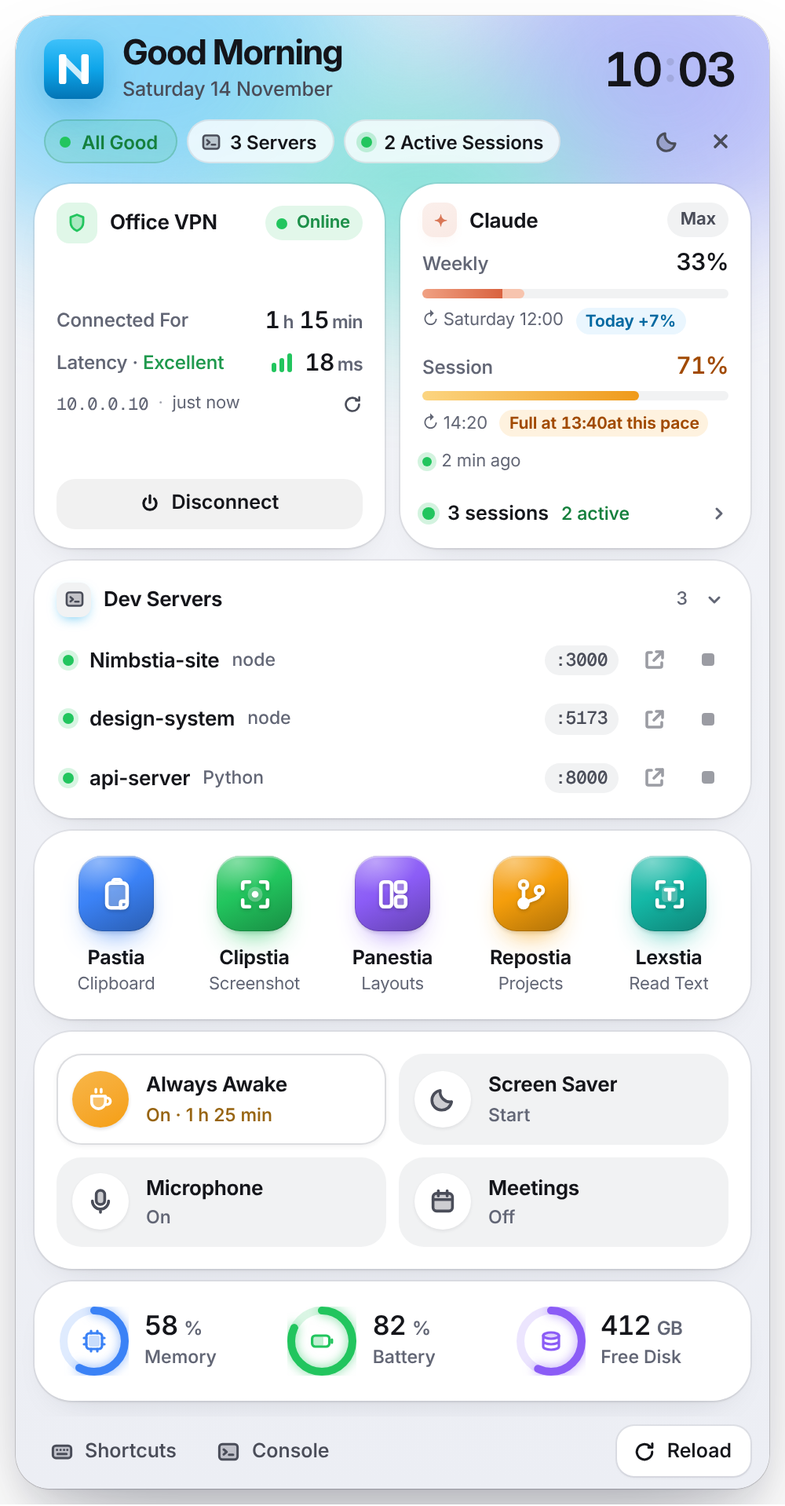
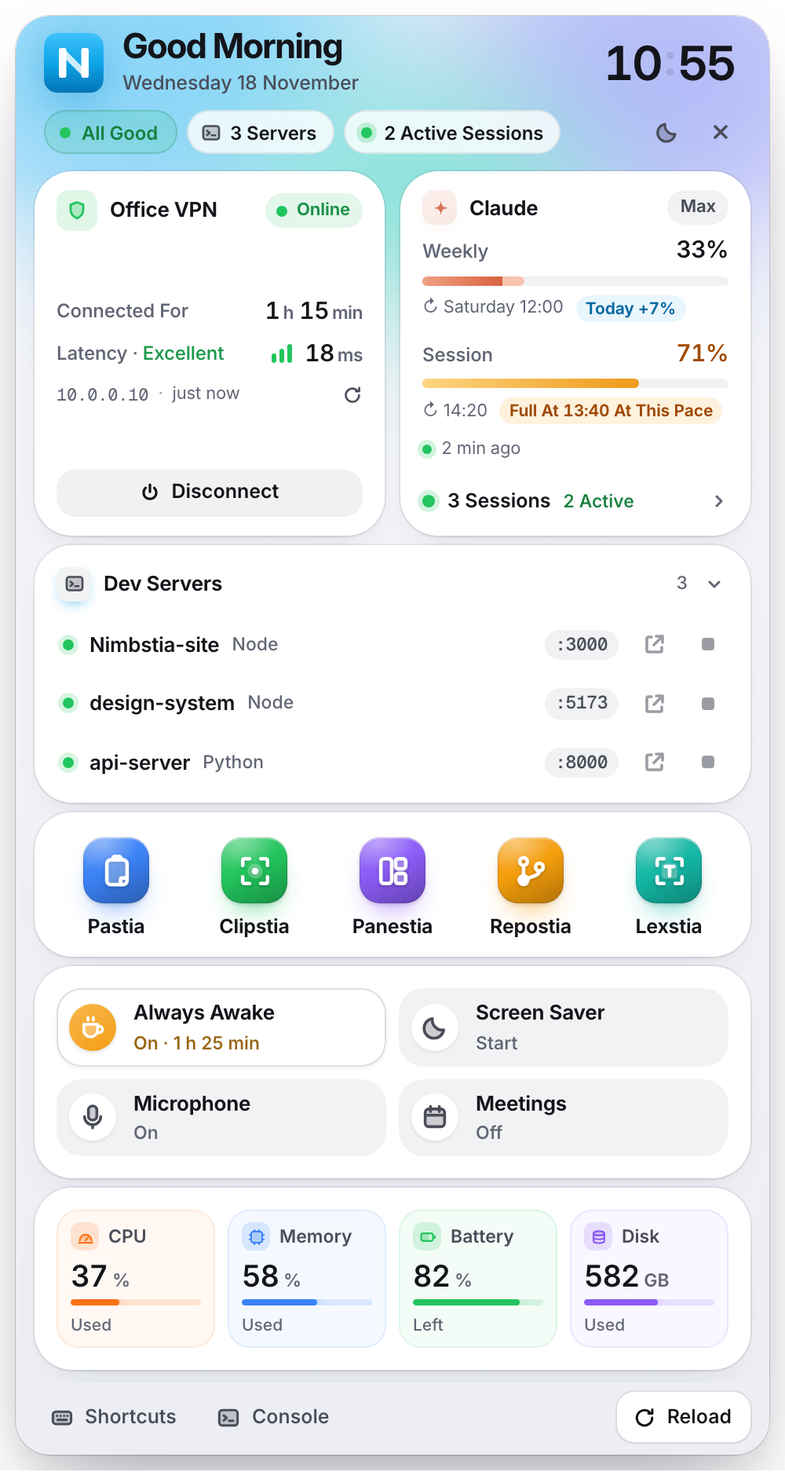
feat: keep a closed Mac awake and remind, calmer system meters
Her Zaman Uyanık only blocked idle sleep, so closing the lid still slept
the Mac and cut Remote Control, the VPN and long jobs. clamshell.lua now
owns `pmset disablesleep` for both cases: while the mode is on (lid
closed, with or without a display, AC or battery) and, as before, while
batteryClamshell has an external display. The mode never switches itself
off except at the 10% battery floor; a notification with Kapat / Açık
Kalsın asks every awakeRemindHours (2), every 30 minutes on battery with
the lid closed and no display. scripts/sleep-guard.sh restores sleep
within 15 s if Hammerspoon quits or crashes and leaves it across a reload.

External display on first connect: a USB-C to DisplayPort adapter shows
up as a USB Billboard device, so plugging it in now declares user
activity until the display appears, and the flag is set without the 1 s
debounce so a lid closed right after plugging in cannot win the race.

Hub system strip: ring gauges with truncated labels replaced by meter
tiles (icon + name, value, fill bar, caption). Disk shows used space
like CPU and memory. Badges and captions are Title Case (Kullanılan,
3 Oturum · 2 Aktif, Bu Hızla … Dolar, Node / Docker tags); the English
pace badge gets its missing space. README hub screenshots regenerated.

Verified on the live install: Hammerspoon reloads with no load errors,
SleepDisabled stays 1 across reloads with a single guard process, the
reminder fired after backdating it; previews rendered in TR and EN,
[…]

diff --git a/pulstia.html b/pulstia.html
@@ -27,7 +27,7 @@ button:focus-visible,[tabindex]:focus-visible{outline:2px solid var(--accent-rin
 .app.show .scroll > :nth-child(4){animation-delay:calc(var(--stagger) * 3)}.app.show .scroll > :nth-child(5){animation-delay:calc(var(--stagger) * 4)}
 .app.show .scroll > :nth-child(6){animation-delay:calc(var(--stagger) * 5)}.app.show .scroll > :nth-child(n+7){animation-delay:calc(var(--stagger) * 6)}
 /* a live data update re-renders the same view: nothing enters again, rings and bars do not redraw */
-.scroll.still > *,.scroll.still .gauge .val,.scroll.still .meter i,.scroll.still .cbm i,.scroll.still .mbar i,.scroll.still .pb i,.scroll.still .ubar .sg,.scroll.still .vchip i::after,.scroll.still .pill i::after{animation:none!important}
+.scroll.still > *,.scroll.still .sbar i,.scroll.still .meter i,.scroll.still .cbm i,.scroll.still .mbar i,.scroll.still .pb i,.scroll.still .ubar .sg,.scroll.still .vchip i::after,.scroll.still .pill i::after{animation:none!important}
 
 /* ---------------------------------------------------------------- header */
 .head{display:flex;align-items:center;gap:10px;padding:12px 4px 0 4px;flex:none}
@@ -250,28 +250,19 @@ button:focus-visible,[tabindex]:focus-visible{outline:2px solid var(--accent-rin
 .mrow span{flex:1;min-width:0;overflow:hidden;text-overflow:ellipsis;white-space:nowrap}
 .muted{font-size:12px;color:var(--faint);padding:8px 0 0}
 
-/* system: ring gauges */
+/* system: meter tiles */
 .sw4{display:grid;grid-template-columns:repeat(var(--n),1fr);gap:8px}
-.sc{display:flex;align-items:center;gap:10px;min-width:0;padding:6px;margin:-4px;border-radius:14px;text-align:left;transition:background var(--dur-1)}
-.sc:hover{background:var(--hover)}
-.gauge{position:relative;flex:none;width:44px;height:44px}
-.gauge svg{width:44px;height:44px;transform:rotate(-90deg)}
-.gauge circle{fill:none;stroke-width:5;stroke-linecap:round}
-.gauge .trk{stroke:color-mix(in srgb,var(--s) 16%,transparent)}
-.gauge .val{stroke:var(--s);animation:dash var(--dur-4) var(--ease-out) both .12s}
-@keyframes dash{from{stroke-dasharray:0 200}}
-.gauge .gi{position:absolute;inset:0;display:grid;place-items:center;color:var(--s)}
-.gauge .gi svg{width:16px;height:16px;transform:none}
-.sx{display:flex;flex-direction:column;gap:3px;min-width:0}
-.sx b{font:560 17px/1 var(--font-display);letter-spacing:-.025em;font-variant-numeric:tabular-nums;white-space:nowrap}
-.sx b em{font-style:normal;font-size:12px;font-weight:600;color:var(--faint);margin-left:4px}
-.sx small{font-size:11.5px;font-weight:550;color:var(--faint);white-space:nowrap;overflow:hidden;text-overflow:ellipsis}
+.sc{display:flex;flex-direction:column;align-items:stretch;gap:6px;min-width:0;padding:10px 10px 9px;border-radius:14px;text-align:left;background:color-mix(in srgb,var(--s) 5%,transparent);box-shadow:inset 0 0 0 1px color-mix(in srgb,var(--s) 11%,transparent);transition:background var(--dur-1),box-shadow var(--dur-1)}
+.sc:hover{background:color-mix(in srgb,var(--s) 10%,transparent);box-shadow:inset 0 0 0 1px color-mix(in srgb,var(--s) 22%,transparent)}
+.sc .sh{display:flex;align-items:center;gap:6px;min-width:0;font-size:11.5px;font-weight:600;color:var(--muted);white-space:nowrap}
+.sc .gi{display:grid;place-items:center;flex:none;width:18px;height:18px;border-radius:6px;color:var(--s);background:color-mix(in srgb,var(--s) 16%,transparent)}
+.sc .gi svg{width:11px;height:11px}
+.sc b{font:560 19px/1 var(--font-display);letter-spacing:-.03em;font-variant-numeric:tabular-nums;white-space:nowrap;margin-top:2px}
+.sc b em{font-style:normal;font-size:11.5px;font-weight:600;letter-spacing:0;color:var(--faint);margin-left:3px}
+.sbar{position:relative;display:block;height:4px;border-radius:99px;overflow:hidden;background:color-mix(in srgb,var(--s) 15%,transparent)}
+.sbar i{position:absolute;inset:0 auto 0 0;border-radius:inherit;background:var(--s);box-shadow:0 0 8px color-mix(in srgb,var(--s) 55%,transparent);transform-origin:left;animation:grow var(--dur-4) var(--ease-out) both .12s}
+.sc small{font-size:10.5px;font-weight:500;color:var(--faint);white-space:nowrap}
 .sc.alert{--s:var(--bad-bar)!important} .sc.alert b{color:var(--danger)}
-/* four gauges in a row: smaller rings so the numbers keep their room */
-.sw4.four .sc{gap:8px}
-.sw4.four .gauge,.sw4.four .gauge svg{width:38px;height:38px}
-.sw4.four .gauge .gi svg{width:14px;height:14px}
-.sw4.four .sx b{font-size:16px}
 
 /* ---------------------------------------------------------------- footer */
 .foot{flex:none;display:flex;align-items:center;gap:4px;padding:10px 12px 12px}
@@ -477,7 +468,6 @@ button.ss:hover .go{color:var(--text);transform:translate(2px,-2px)}
 /* cards float on the light: a little translucent at rest, a hair of top light */
 .card{background:color-mix(in srgb,var(--card) 88%,transparent)}
 .wh .wi{background:linear-gradient(150deg,color-mix(in srgb,var(--wc,var(--accent)) 72%,#fff),var(--wc,var(--accent)));box-shadow:0 3px 8px -3px color-mix(in srgb,var(--wc,var(--accent)) 65%,transparent)}
-.gauge .val{filter:drop-shadow(0 0 3.5px color-mix(in srgb,var(--s) 60%,transparent))}
 .meter i{box-shadow:0 0 10px -1px color-mix(in srgb,#d97757 55%,transparent)}
 /* tool tiles: the same lit badge each tool wears in its own panel header (theme.css .tmark) */
 .ti .ico{color:#fff;background:linear-gradient(155deg,color-mix(in srgb,var(--k) 84%,#fff) 0%,var(--k) 45%,color-mix(in srgb,var(--k) 72%,#000) 100%);box-shadow:inset 0 1px 0 rgba(255,255,255,.42),inset 0 0 0 .5px rgba(0,0,0,.14),0 10px 18px -10px color-mix(in srgb,var(--k) 92%,transparent),0 1px 2px rgba(20,24,40,.16)}
@@ -503,7 +493,7 @@ button.ss:hover .go{color:var(--text);transform:translate(2px,-2px)}
 .app.tighter .rt .rc{width:30px;height:30px}
 .app.tighter .hero{padding-top:8px;gap:8px}
 .app.tighter .vbtn{margin-top:8px!important;height:30px!important}
-.app.tighter .gauge,.app.tighter .gauge svg{width:38px;height:38px}
+.app.tighter .sc{padding:8px 9px 7px;gap:5px}
 </style>
 </head>
 <body>
@@ -701,14 +691,14 @@ function renderMain() {
       const v = pct(l), t = typeof l.today === 'number' ? Math.min(v, Math.max(0, Math.round(l.today))) : 0;
       // what the number means right now: a window that reset, or when it would fill at this pace
       const sub = (l.reset ? `<span class="td ok">Sıfırlandı</span>` : '') + (l.resets ? `<span>↻ ${esc(l.resets)}</span>` : '') + (typeof l.today === 'number' ? `<span class="td">Bugün +%${l.today}</span>` : '') +
-        (l.fullAt ? `<span class="td hot" title="Son 45 dakikanın hızıyla"><span>Bu hızla</span> ${esc(l.fullAt)}<span>’de dolar</span></span>` : typeof l.perHour === 'number' && l.perHour > 0 ? `<span class="td">+%${l.perHour}<span>/sa</span></span>` : '');
+        (l.fullAt ? `<span class="td hot" title="Son 45 dakikanın hızıyla"><span>Bu Hızla</span> ${esc(l.fullAt)}<span>’de Dolar</span></span>` : typeof l.perHour === 'number' && l.perHour > 0 ? `<span class="td">+%${l.perHour}<span>/sa</span></span>` : '');
       return `<div class="cbr ${limTone(v)}"><div class="cbt"><span>${esc(short(l))}</span><b data-roll="b${k}">${fmtP(v)}</b></div><div class="cbm b${k}"><i style="width:${Math.max(2, v - t)}%"></i>${t ? `<i class="tday" style="width:${t}%"></i>` : ''}</div>${sub ? `<div class="cbx">${sub}</div>` : ''}</div>`;
     };
     const barBody = lim ? `<div class="cbars">${barRow(lim, 1)}${lims[1] ? barRow(lims[1], 2) : ''}</div>` : '';
     parts.claude = {
       plan: c.plan ? `<span class="plan">${esc(c.plan)}</span>` : '',
       body: lim ? barBody : `<div class="cnone"><b>Kullanım verisi yok</b><small>Claude Code açıkken güncellenir</small></div>`,
-      sess: sess.length ? `<button class="slink" data-act="sessions" type="button"><span class="sdot${busy ? ' b' : ''}"></span><span>${sess.length} oturum</span>${busy ? `<small>${busy} aktif</small>` : ''}<span class="sp"></span>${CHEV}</button>` : '',
+      sess: sess.length ? `<button class="slink" data-act="sessions" type="button"><span class="sdot${busy ? ' b' : ''}"></span><span>${sess.length} Oturum</span>${busy ? `<small>${busy} Aktif</small>` : ''}<span class="sp"></span>${CHEV}</button>` : '',
     };
     row1.push(`<section class="w claude">
       ${wh(W_ICON.spark, 'Claude', parts.claude.plan)}
@@ -744,7 +734,7 @@ function renderMain() {
     const shown = extra > 0 && !portsMore ? ports.slice(0, PORTS_SHOWN) : ports;
     const more = extra > 0 ? `<button class="pmore" data-act="pmore" type="button" aria-expanded="${portsMore ? 'true' : 'false'}"><span>${portsMore ? 'Daha Az Göster' : `${extra} Daha Göster`}</span><span class="chev${portsMore ? ' open' : ''}">${CHEV}</span></button>` : '';
     out.push(`<section class="w ports${folded ? ' folded' : ''}">${head}${folded ? '' : `<div class="pl">` + shown.map(x =>
-      `<div class="pr"><span class="pd"></span><button class="pp" data-act="port" data-v="open" data-port="${x.port}" type="button" aria-label="localhost:${x.port}"><span class="pnm">${esc(x.folder || x.cmd)}</span>${x.folder ? `<small>${esc(x.cmd)}</small>` : ''}<span class="sp"></span><span class="ppt">:${x.port}</span></button><button class="ib sm" data-act="port" data-v="open" data-port="${x.port}" type="button" data-tip="Aç" aria-label="Aç">${W_ICON.ext}</button><button class="ib sm stop" data-act="port" data-v="stop" data-port="${x.port}" type="button" data-tip="Durdur" aria-label="Durdur">${W_ICON.stop}</button></div>`).join('') + more + `</div>`}</section>`);
+      `<div class="pr"><span class="pd"></span><button class="pp" data-act="port" data-v="open" data-port="${x.port}" type="button" aria-label="localhost:${x.port}"><span class="pnm">${esc(x.folder || x.cmd)}</span>${x.folder ? `<small>${esc(cmdLabel(x.cmd))}</small>` : ''}<span class="sp"></span><span class="ppt">:${x.port}</span></button><button class="ib sm" data-act="port" data-v="open" data-port="${x.port}" type="button" data-tip="Aç" aria-label="Aç">${W_ICON.ext}</button><button class="ib sm stop" data-act="port" data-v="stop" data-port="${x.port}" type="button" data-tip="Durdur" aria-label="Durdur">${W_ICON.stop}</button></div>`).join('') + more + `</div>`}</section>`);
   }
 
   // ---- tools: app icons
@@ -772,20 +762,25 @@ function renderMain() {
   if (d.meetErr) q += `<div class="muted">${esc(d.meetErr)}</div>`;
   out.push(q + '</section>');
 
-  // ---- system: ring gauges
+  // ---- system: meter tiles
   const sy = d.system || {};
-  const C = 2 * Math.PI * 19.5;
-  const gauge = (id, icon, color, value, unit, label, alert, tip, fill) => `<button class="sc${alert ? ' alert' : ''}" data-act="${id === 'mem' ? 'memory' : id === 'cpu' ? 'cpu' : 'sys'}" data-id="${id}" type="button" style="--s:${color}" aria-label="${esc(tip)}"><span class="gauge"><svg viewBox="0 0 44 44"><circle class="trk" cx="22" cy="22" r="19.5"/><circle class="val" cx="22" cy="22" r="19.5" stroke-dasharray="${(C * Math.max(2, Math.min(100, fill || 0)) / 100).toFixed(1)} ${C.toFixed(1)}"/></svg><span class="gi">${ICONS[icon]}</span></span><span class="sx"><b><span data-roll="${id}">${value}</span><em>${unit}</em></b><small>${label}</small></span></button>`;
+    // Meter tile: icon + name, the value, a thin fill bar and a quiet caption saying what the number is
+  // (used / charging / left). Nothing is truncated: names stay one short word, the caption sits on its own line.
+  const gauge = (id, icon, color, value, unit, label, alert, tip, fill, sub) => `<button class="sc${alert ? ' alert' : ''}" data-act="${id === 'mem' ? 'memory' : id === 'cpu' ? 'cpu' : 'sys'}" data-id="${id}" type="button" style="--s:${color}" aria-label="${esc(tip)}"><span class="sh"><span class="gi">${ICONS[icon]}</span><span>${label}</span></span><b><span data-roll="${id}">${value}</span><em>${unit}</em></b><span class="sbar"><i style="width:${Math.max(3, Math.min(100, fill || 0))}%"></i></span>${sub ? `<small>${sub}</small>` : ''}</button>`;
   const cols = [];
-  if (typeof sy.cpu === 'number') cols.push(gauge('cpu', 'cpu', '#f97316', sy.cpu, '%', 'İşlemci', sy.cpu >= 90, 'Neyin ne kadar işlemci kullandığını gör', sy.cpu));
-  else if (sy.cores) cols.push(gauge('cpu', 'cpu', '#f97316', '–', '', 'İşlemci', false, 'Neyin ne kadar işlemci kullandığını gör', 0));
-  if (typeof sy.mem === 'number') cols.push(gauge('mem', 'memo', '#3b82f6', sy.mem, '%', 'Bellek', sy.mem >= 85, 'Neyin ne kadar kullandığını gör', sy.mem));
-  if (sy.battery) cols.push(gauge('battery', 'bat', '#22c55e', sy.battery.pct, '%', sy.battery.charging ? 'Şarjda' : 'Pil', sy.battery.pct < 20 && !sy.battery.charging, 'Pil Ayarları', sy.battery.pct));
-  if (typeof sy.disk === 'number') cols.push(gauge('disk', 'disk', '#8b5cf6', sy.disk >= 1000 ? (sy.disk / 1000).toFixed(1).replace('.', ',') : sy.disk, sy.disk >= 1000 ? 'TB' : 'GB', 'Boş Disk', sy.disk < 20 || sy.diskUsed >= 90, 'Depolama Ayarları', sy.diskUsed));
+  if (typeof sy.cpu === 'number') cols.push(gauge('cpu', 'cpu', '#f97316', sy.cpu, '%', 'İşlemci', sy.cpu >= 90, 'Neyin ne kadar işlemci kullandığını gör', sy.cpu, 'Kullanılan'));
+  else if (sy.cores) cols.push(gauge('cpu', 'cpu', '#f97316', '–', '', 'İşlemci', false, 'Neyin ne kadar işlemci kullandığını gör', 0, 'Kullanılan'));
+  if (typeof sy.mem === 'number') cols.push(gauge('mem', 'memo', '#3b82f6', sy.mem, '%', 'Bellek', sy.mem >= 85, 'Neyin ne kadar kullandığını gör', sy.mem, 'Kullanılan'));
+  if (sy.battery) cols.push(gauge('battery', 'bat', '#22c55e', sy.battery.pct, '%', 'Pil', sy.battery.pct < 20 && !sy.battery.charging, 'Pil Ayarları', sy.battery.pct, sy.battery.charging ? 'Şarjda' : 'Kalan'));
+  // Used space, like the other gauges; free space stays behind the alert (under 20 GB) and the tooltip.
+  const dk = typeof sy.diskUsedGB === 'number' ? sy.diskUsedGB : null;
+  if (typeof sy.disk === 'number' && dk !== null) cols.push(gauge('disk', 'disk', '#8b5cf6', dk >= 1000 ? (dk / 1000).toFixed(1).replace('.', ',') : dk, dk >= 1000 ? 'TB' : 'GB', 'Disk', sy.disk < 20 || sy.diskUsed >= 90, 'Depolama Ayarları', sy.diskUsed, 'Kullanılan'));
   if (cols.length) out.push(`<section class="w sys"><div class="sw4${cols.length >= 4 ? ' four' : ''}" style="--n:${cols.length}">${cols.join('')}</div></section>`);
   return out.join('');
 }
 
+// Process names as a Title Case tag: node -> Node, com.docker.backend -> Docker.
+const cmdLabel = c => { c = String(c || ''); if (/docker/i.test(c)) return 'Docker'; return c.includes('.') ? c : c.charAt(0).toLocaleUpperCase('en') + c.slice(1); };
 let procs = null;
 const pctTxt = v => String(v).replace('.', ',');
 // The same list sorted by processor use. Every number is a share of the whole processor (all cores).
@@ -856,7 +851,7 @@ function renderSessions() {
     const inner = `<span class="ss-av${x.busy ? ' b' : ''}">${esc(String(x.name || '?').charAt(0).toLocaleUpperCase('tr'))}</span><span class="ss-tx"><b>${esc(x.name)}</b>${meta ? `<small>${meta}</small>` : ''}</span><span class="ss-st${x.busy ? ' b' : ''}">${x.busy ? 'Çalışıyor' : 'Boşta'}</span>${x.url ? ext : ''}`;
     return x.url ? `<button class="ss" data-act="url" data-url="${esc(x.url)}" type="button" title="claude.ai'de aç">${inner}</button>` : `<div class="ss">${inner}</div>`;
   }).join('');
-  return `<div class="vhead"><button class="ib ring" data-act="back" aria-label="Geri">${ICONS.back}</button><div class="vht"><h2>Claude Oturumları</h2><small><span>${sess.length} oturum</span> · <span>${busy} aktif</span></small></div></div>
+  return `<div class="vhead"><button class="ib ring" data-act="back" aria-label="Geri">${ICONS.back}</button><div class="vht"><h2>Claude Oturumları</h2><small><span>${sess.length} Oturum</span> · <span>${busy} Aktif</span></small></div></div>
     <section class="card ss-list">${rows || '<div class="empty">Açık oturum yok.</div>'}</section>`;
 }
 

diff --git a/i18n.js b/i18n.js
@@ -47,7 +47,7 @@
     // shared chrome
     'Kapat': 'Close', 'Kapat · Esc': 'Close · Esc', 'kapat': 'close',
     'Açık Tema': 'Light Theme', 'Koyu Tema': 'Dark Theme',
-    'Sıfırlandı': 'Reset', 'Bu hızla': 'Full at', '’de dolar': 'at this pace', '/sa': '/h', 'Claude Code her yanıttan sonra günceller': 'Claude Code updates this after every response', 'Son 45 dakikanın hızıyla': 'At the pace of the last 45 minutes',
+    'Sıfırlandı': 'Reset', 'Bu Hızla': 'Full At', '’de Dolar': '\u00a0At This Pace', '/sa': '/h', 'Claude Code her yanıttan sonra günceller': 'Claude Code updates this after every response', 'Son 45 dakikanın hızıyla': 'At the pace of the last 45 minutes',
     'Türe Göre Gruplu': 'Grouped by Kind', 'Tarihe Göre Gruplu': 'Grouped by Date',
     'Filtreleri Temizle': 'Clear Filters', 'Filtreleri Kaldır': 'Remove Filters', 'Filtreyi Kaldır': 'Remove Filter',
     'Farklı bir kelime dene ya da Esc ile aramayı temizle.': 'Try another word, or press Esc to clear the search.',
@@ -134,7 +134,7 @@
     'Araçlar': 'Tools', 'Pano': 'Clipboard', 'Ekran Al': 'Screenshot', 'Düzen': 'Layouts', 'Projeler': 'Projects',
     'Metin Oku': 'Read Text', 'Hızlı Ayarlar': 'Quick Settings', 'Uyanık Tut': 'Keep Awake', 'Mikrofon': 'Microphone',
     'Toplantılar': 'Meetings', 'Açık': 'On', 'Kapalı': 'Off', 'Sessiz': 'Muted', 'Sistem': 'System',
-    'Pil': 'Battery', 'Şarj': 'Charging', 'Şarjda': 'Charging', 'Bellek': 'Memory', 'Boş Disk': 'Free Disk',
+    'Pil': 'Battery', 'Şarj': 'Charging', 'Şarjda': 'Charging', 'Bellek': 'Memory', 'Boş Disk': 'Free Disk', 'Disk': 'Disk', 'Kullanılan': 'Used', 'Kalan': 'Left',
     'Pil Ayarları': 'Battery Settings', 'Depolama Ayarları': 'Storage Settings',
     'Neyin ne kadar kullandığını gör': 'See what uses how much', 'Uygulamalar okunuyor…': 'Reading apps…',
     'Okunamadı.': 'Could not read.', 'Bellek Kullanımı': 'Memory Usage', 'Diğer': 'Other', 'Uzak Dal': 'Remote Branch', 'Uzak Dal Yok': 'No Remote Branch', 'Son Değişiklik': 'Last Change', 'Son Açılış': 'Last Opened', 'Ana Depo': 'Main Repo', 'Ana Depolar': 'Main Repos', 'Çalışma Kopyaları': 'Work Copies', 'Bugün Yaptıkların': 'Your Day', 'Solu Daralt': 'Narrow Left Side', 'Solu Genişlet': 'Widen Left Side', 'Seçili Pencere Yok': 'No Focused Window', 'Kullanım verisi yok': 'No usage data yet', 'Claude Code açıkken güncellenir': 'Updates while Claude Code runs',
@@ -227,9 +227,9 @@
     R('^' + NUM + ' [Öö]ğe$', function (m) { return pl(m[1], 'Item', 'Items'); }),
     R('^' + NUM + ' Proje$', function (m) { return pl(m[1], 'Project', 'Projects'); }),
     R('^' + NUM + ' çekirdeğin toplamı$', function (m) { return 'across all ' + m[1] + ' cores'; }),
-    R('^' + NUM + ' oturum$', function (m) { return pl(m[1], 'session', 'sessions'); }),
+    R('^' + NUM + ' [oO]turum$', function (m) { return pl(m[1], 'Session', 'Sessions'); }),
     R('^' + NUM + ' oturum çalışıyor$', function (m) { return pl(m[1], 'session', 'sessions') + ' running'; }),
-    R('^' + NUM + ' aktif$', function (m) { return m[1] + ' active'; }),
+    R('^' + NUM + ' [aA]ktif$', function (m) { return m[1] + ' Active'; }),
     R('^' + NUM + ' açık$', function (m) { return m[1] + ' open'; }),
     R('^' + NUM + ' çalışıyor$', function (m) { return m[1] + ' running'; }),
     R('^' + NUM + ' araç$', function (m) { return pl(m[1], 'tool', 'tools'); }),

diff --git a/scripts/preview/demo.js b/scripts/preview/demo.js
@@ -47,7 +47,7 @@ exports.POP = { health: 'ok', status: { text: 'Her Şey Yolunda', tone: 'ok' },
     sessions: [{ name: 'Nimbstia docs', busy: true, url: 'https://claude.ai' }, { name: 'api-server', busy: true, url: 'https://claude.ai' }, { name: 'website', busy: false, url: 'https://claude.ai' }] },
   tools: [{ id: 'clip', name: 'Pastia', what: 'Pano', keys: '⌃V' }, { id: 'shot', name: 'Clipstia', what: 'Ekran Görüntüsü', keys: '⌃.' }, { id: 'layout', name: 'Panestia', what: 'Düzen', keys: '⌃Space' }, { id: 'repo', name: 'Repostia', what: 'Projeler', keys: '⌃⇧P' }, { id: 'text', name: 'Lexstia', what: 'Metin Oku', keys: '⌃⇧O' }],
   toggles: { awake: true, mic: false, meetings: false, appearance: false }, awakeSince: Math.floor(Date.now() / 1000) - 5100, now: Math.floor(Date.now() / 1000),
-  system: { battery: { pct: 82, charging: false }, mem: 58, disk: 412, diskUsed: 57 },
+  system: { cpu: 37, cores: 10, battery: { pct: 82, charging: false }, mem: 58, disk: 412, diskUsedGB: 582, diskUsed: 57 },
   theme: 'auto', shortcuts: [{ keys: '⌃V', label: 'Pastia · Pano Geçmişi' }, { keys: '⌃.', label: 'Clipstia · Ekran Görüntüsü' }], errors: [] };
 // layouts
 const COLORS = { code: '#2f80ed', chrome: '#f2b100', claude: '#d97757', teams: '#6264a7', outlook: '#0f6cbd', whatsapp: '#25d366', terminal: '#7c7c88', win1: '#0a84ff', win2: '#8e5cf7' };

diff --git a/scripts/preview/shoot.js b/scripts/preview/shoot.js
@@ -14,7 +14,7 @@ const args = li >= 0 ? argv.filter((_, i) => i !== li && i !== li + 1) : argv, r
 const lang = li >= 0 ? (argv[li + 1] || 'tr') : (readme ? 'en' : 'tr');
 const out = readme ? path.join(ROOT, 'assets/screens') : (args[0] || path.join(__dirname, 'out'));
 const only = readme ? [] : args.slice(1);
-const scale = readme ? 2 : 1;
+const scale = readme || process.env.SCALE === '2' ? 2 : 1;
 
 // The Clipstia demo: select the report window of desktop.html and mark two things on it.
 const WIN = { x: 245, y: 108, w: 950, h: 648 };

diff --git a/README.tr.md b/README.tr.md
@@ -163,7 +163,7 @@ return {
 
 - **Şablonlar:** `snippets.lua`, düz bir `{ key, label, text }` listesi; `text` bir fonksiyon da olabilir (tarihler için).
 - **Düzenler ve uygulama tuşları:** `layouts.lua` ve `tools.lua` dosyalarının başındaki tablolar.
-- **Pilde kapalı kapak:** macOS, kapağı kapalı MacBook'un harici ekranı sürmesine yalnız şarjdayken izin verir. `batteryClamshell = true` ile Nimbstia harici ekran bağlıyken uykuyu kapatır, ekran çıkarıldığı (ya da Hammerspoon kapandığı) anda geri açar; Mac çantada yine uyur. Bir kez `scripts/clamshell-setup.sh` çalıştır: yalnız `pmset disablesleep 0|1` komutuna izin veren bir sudoers kuralı kurar (`--uninstall` kaldırır).
+- **Kapalı kapak:** bir kez `scripts/clamshell-setup.sh` çalıştır: yalnız `pmset disablesleep 0|1` komutuna izin veren bir sudoers kuralı kurar (`--uninstall` kaldırır). Sonra **Her Zaman Uyanık** (<kbd>Ctrl</kbd> <kbd>Opt</kbd> <kbd>K</kbd>) Mac'i kapak kapalıyken de çalışır tutar; ekran olsun olmasın, şarjda da pilde de. Remote Control, VPN ve uzun işler kesilmez. Kendiliğinden kapanmaz; her `awakeRemindHours` (2) saatte bir, pilde kapak kapalı ve ekran yokken 30 dakikada bir bildirimle hâlâ gerekip gerekmediğini sorar, pil %10'a inince bırakır. `batteryClamshell = true` ile harici ekran bağlıyken de uyku kapanır (macOS kapalı kapak + ekrana yalnız şarjda izin verir). İkisi de geçerli değilse uyku hemen, Hammerspoon kapanır ya da çökerse 15 saniye içinde geri açılır (`scripts/sleep-guard.sh`); Mac çantada yine uyur. USB-C → DisplayPort adaptörü takılınca Nimbstia ekran hattını uyandırır, görüntü kapağı açmadan gelir.
 - **Tema:** her panelin ve merkezin başlığındaki güneş/ay butonu.
 - **Kısayol çakışmaları:** <kbd>Ctrl</kbd> <kbd>V</kbd> Vim'in blok seçim tuşunun, <kbd>Ctrl</kbd> <kbd>Space</kbd> macOS'un "önceki giriş kaynağı" kısayolunun yerini alır. Bunlara ihtiyacın varsa `init.lua` içindeki atamaları değiştir.
 

diff --git a/README.md b/README.md
@@ -170,7 +170,7 @@ return {
 
 - **Snippets:** `snippets.lua` — a plain list of `{ key, label, text }`; `text` may be a function (dates).
 - **Layouts and app keys:** the tables at the top of `layouts.lua` and `tools.lua`.
-- **Closed lid on battery:** macOS keeps a closed MacBook driving an external display only on AC power. With `batteryClamshell = true`, Nimbstia disables sleep while an external display is connected and restores it the moment the display is unplugged (or Hammerspoon quits), so the Mac still sleeps in a bag. Run `scripts/clamshell-setup.sh` once: it installs a sudoers rule that allows only `pmset disablesleep 0|1` (`--uninstall` removes it).
+- **Closed lid:** run `scripts/clamshell-setup.sh` once: it installs a sudoers rule that allows only `pmset disablesleep 0|1` (`--uninstall` removes it). Then **Her Zaman Uyanık** (<kbd>Ctrl</kbd> <kbd>Opt</kbd> <kbd>K</kbd>) keeps the Mac running with the lid closed too, with or without a display, on AC and on battery, so Remote Control, the VPN and long jobs survive. It never switches itself off; a notification asks every `awakeRemindHours` (2) whether it is still needed, every 30 minutes on battery with the lid closed and no display, and it lets go at 10% battery. With `batteryClamshell = true`, Nimbstia also disables sleep while an external display is connected (macOS allows a closed lid with a display only on AC). Sleep comes back the moment neither applies, or within 15 seconds after Hammerspoon quits or crashes (`scripts/sleep-guard.sh`), so the Mac still sleeps in a bag. When a USB-C → DisplayPort adapter is plugged in, Nimbstia wakes the display pipeline so the screen comes up without opening the lid.
 - **Theme:** the sun/moon button in the header of every panel and of the hub.
 - **Shortcut clashes:** <kbd>Ctrl</kbd> <kbd>V</kbd> replaces Vim's visual-block key and <kbd>Ctrl</kbd> <kbd>Space</kbd> replaces macOS "previous input source". Change the bindings in `init.lua` if you rely on them.
 
